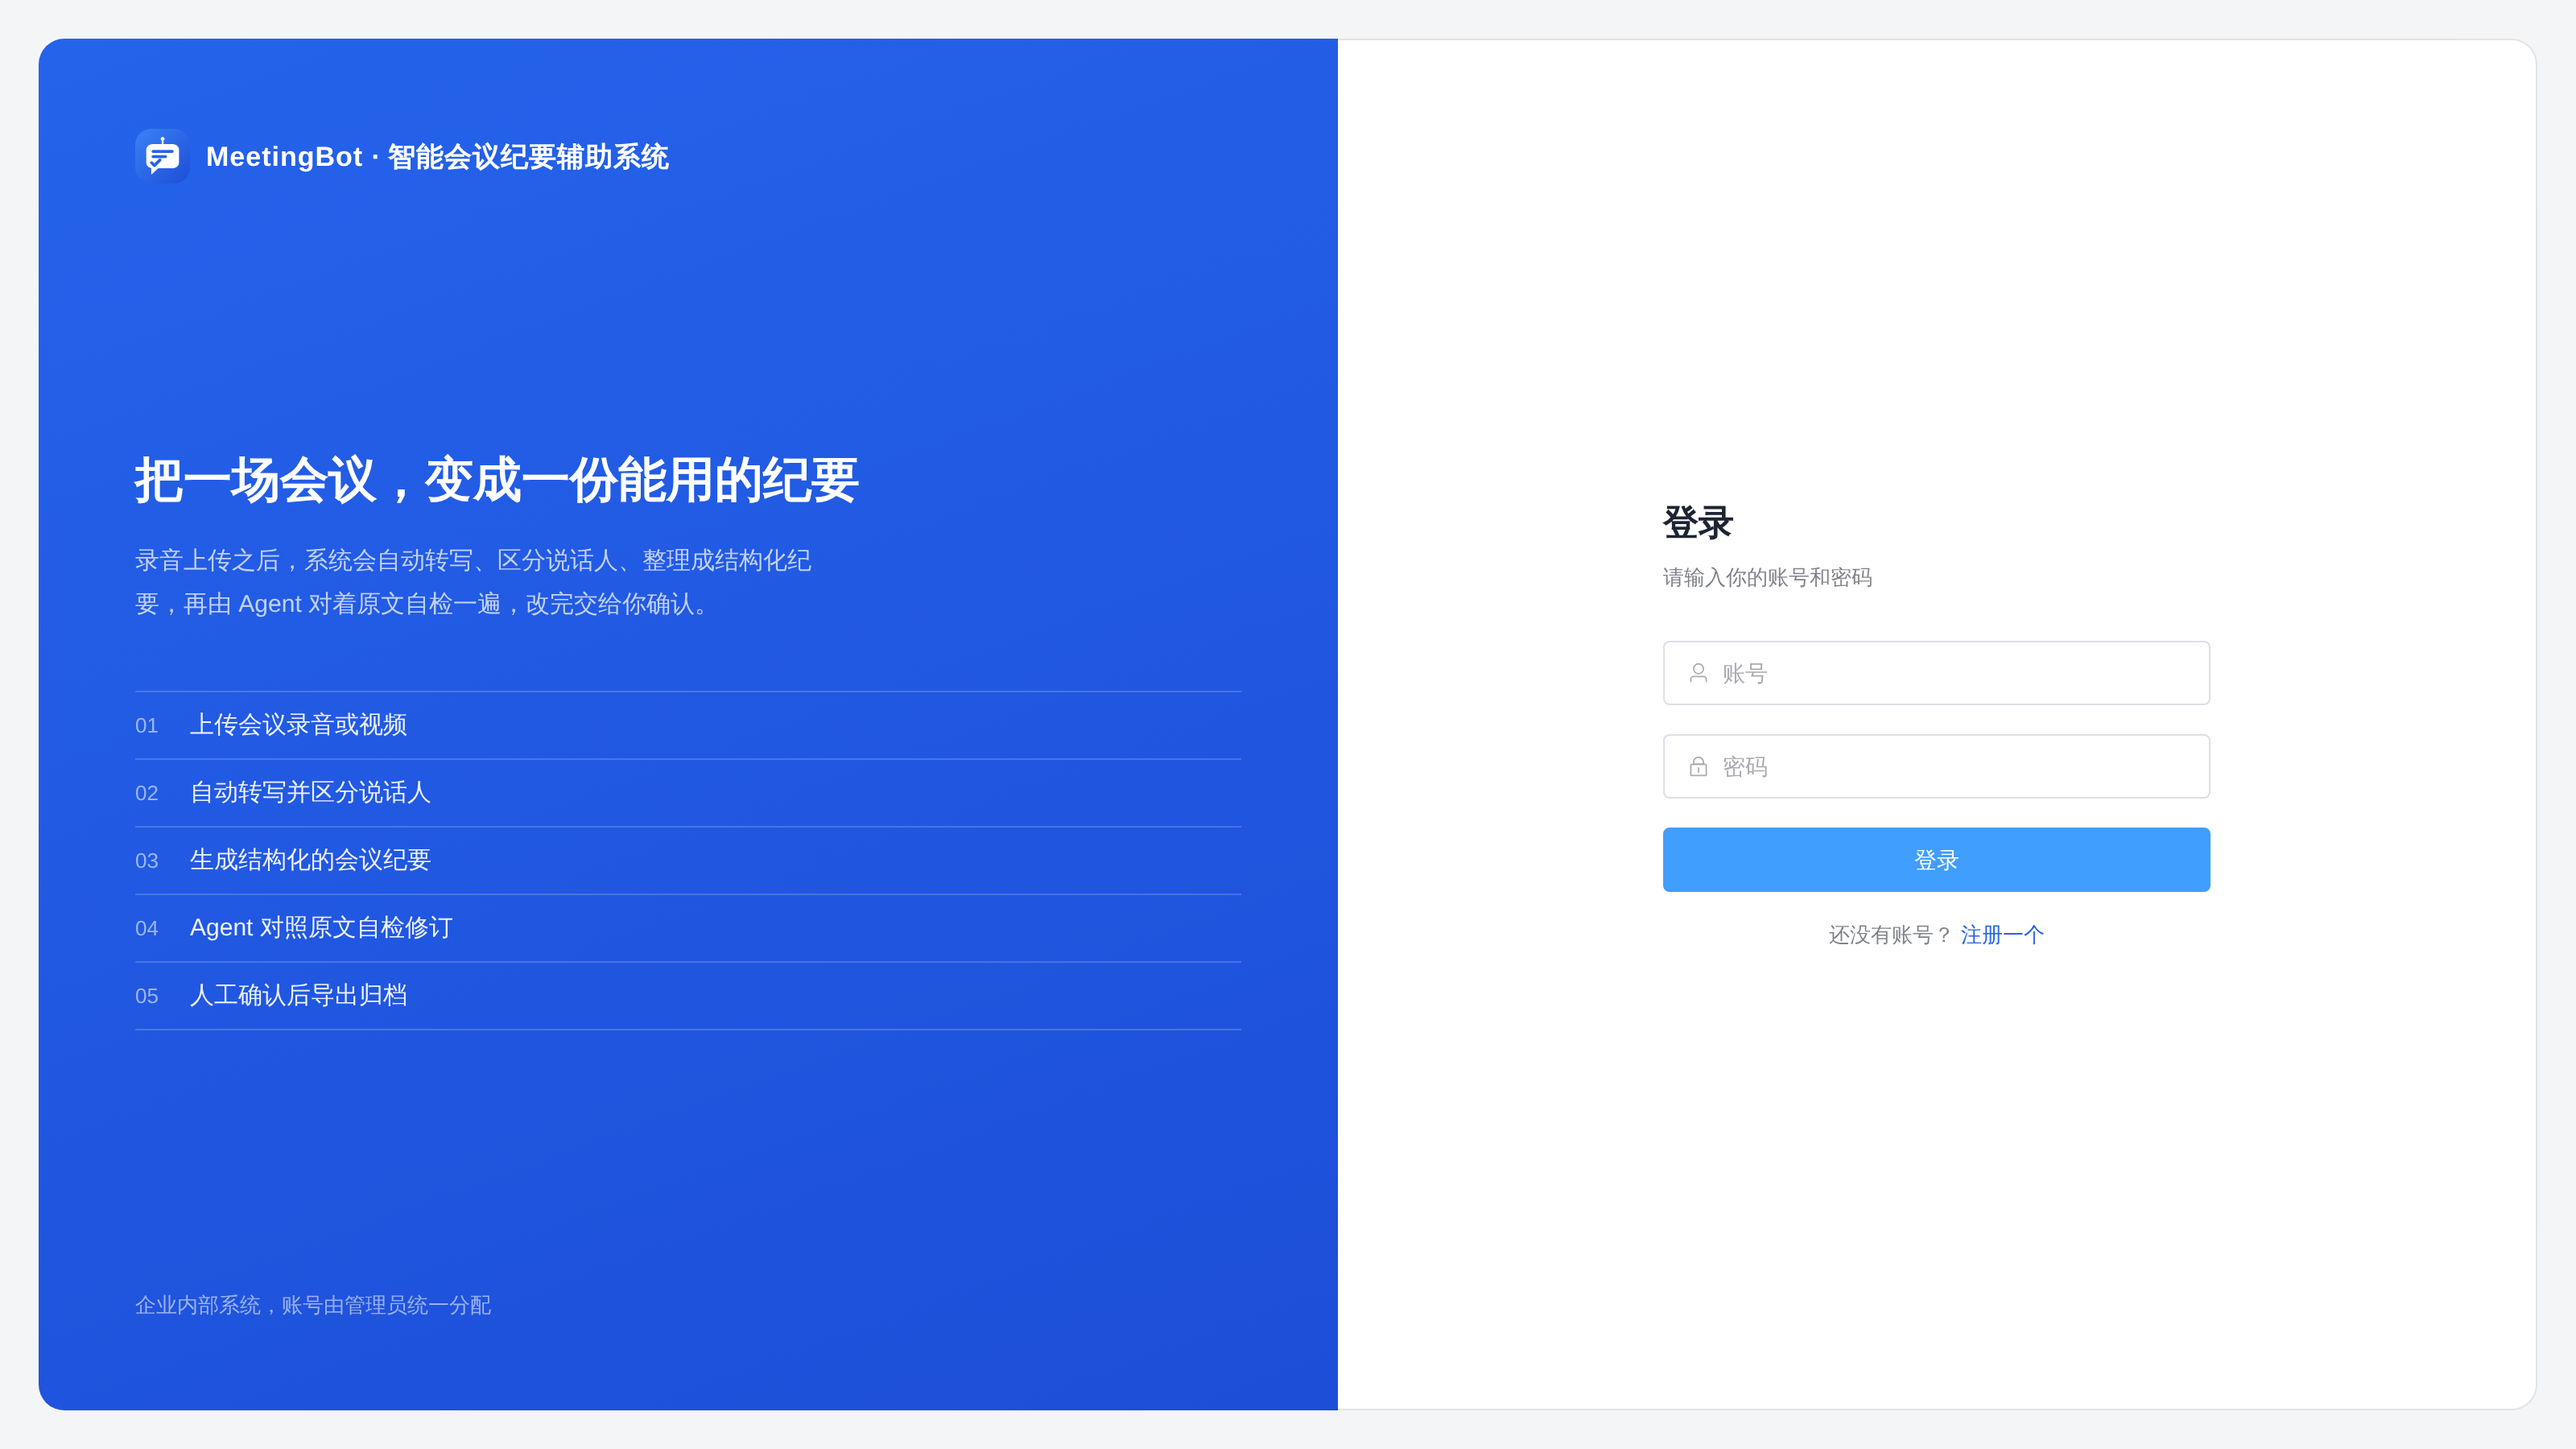
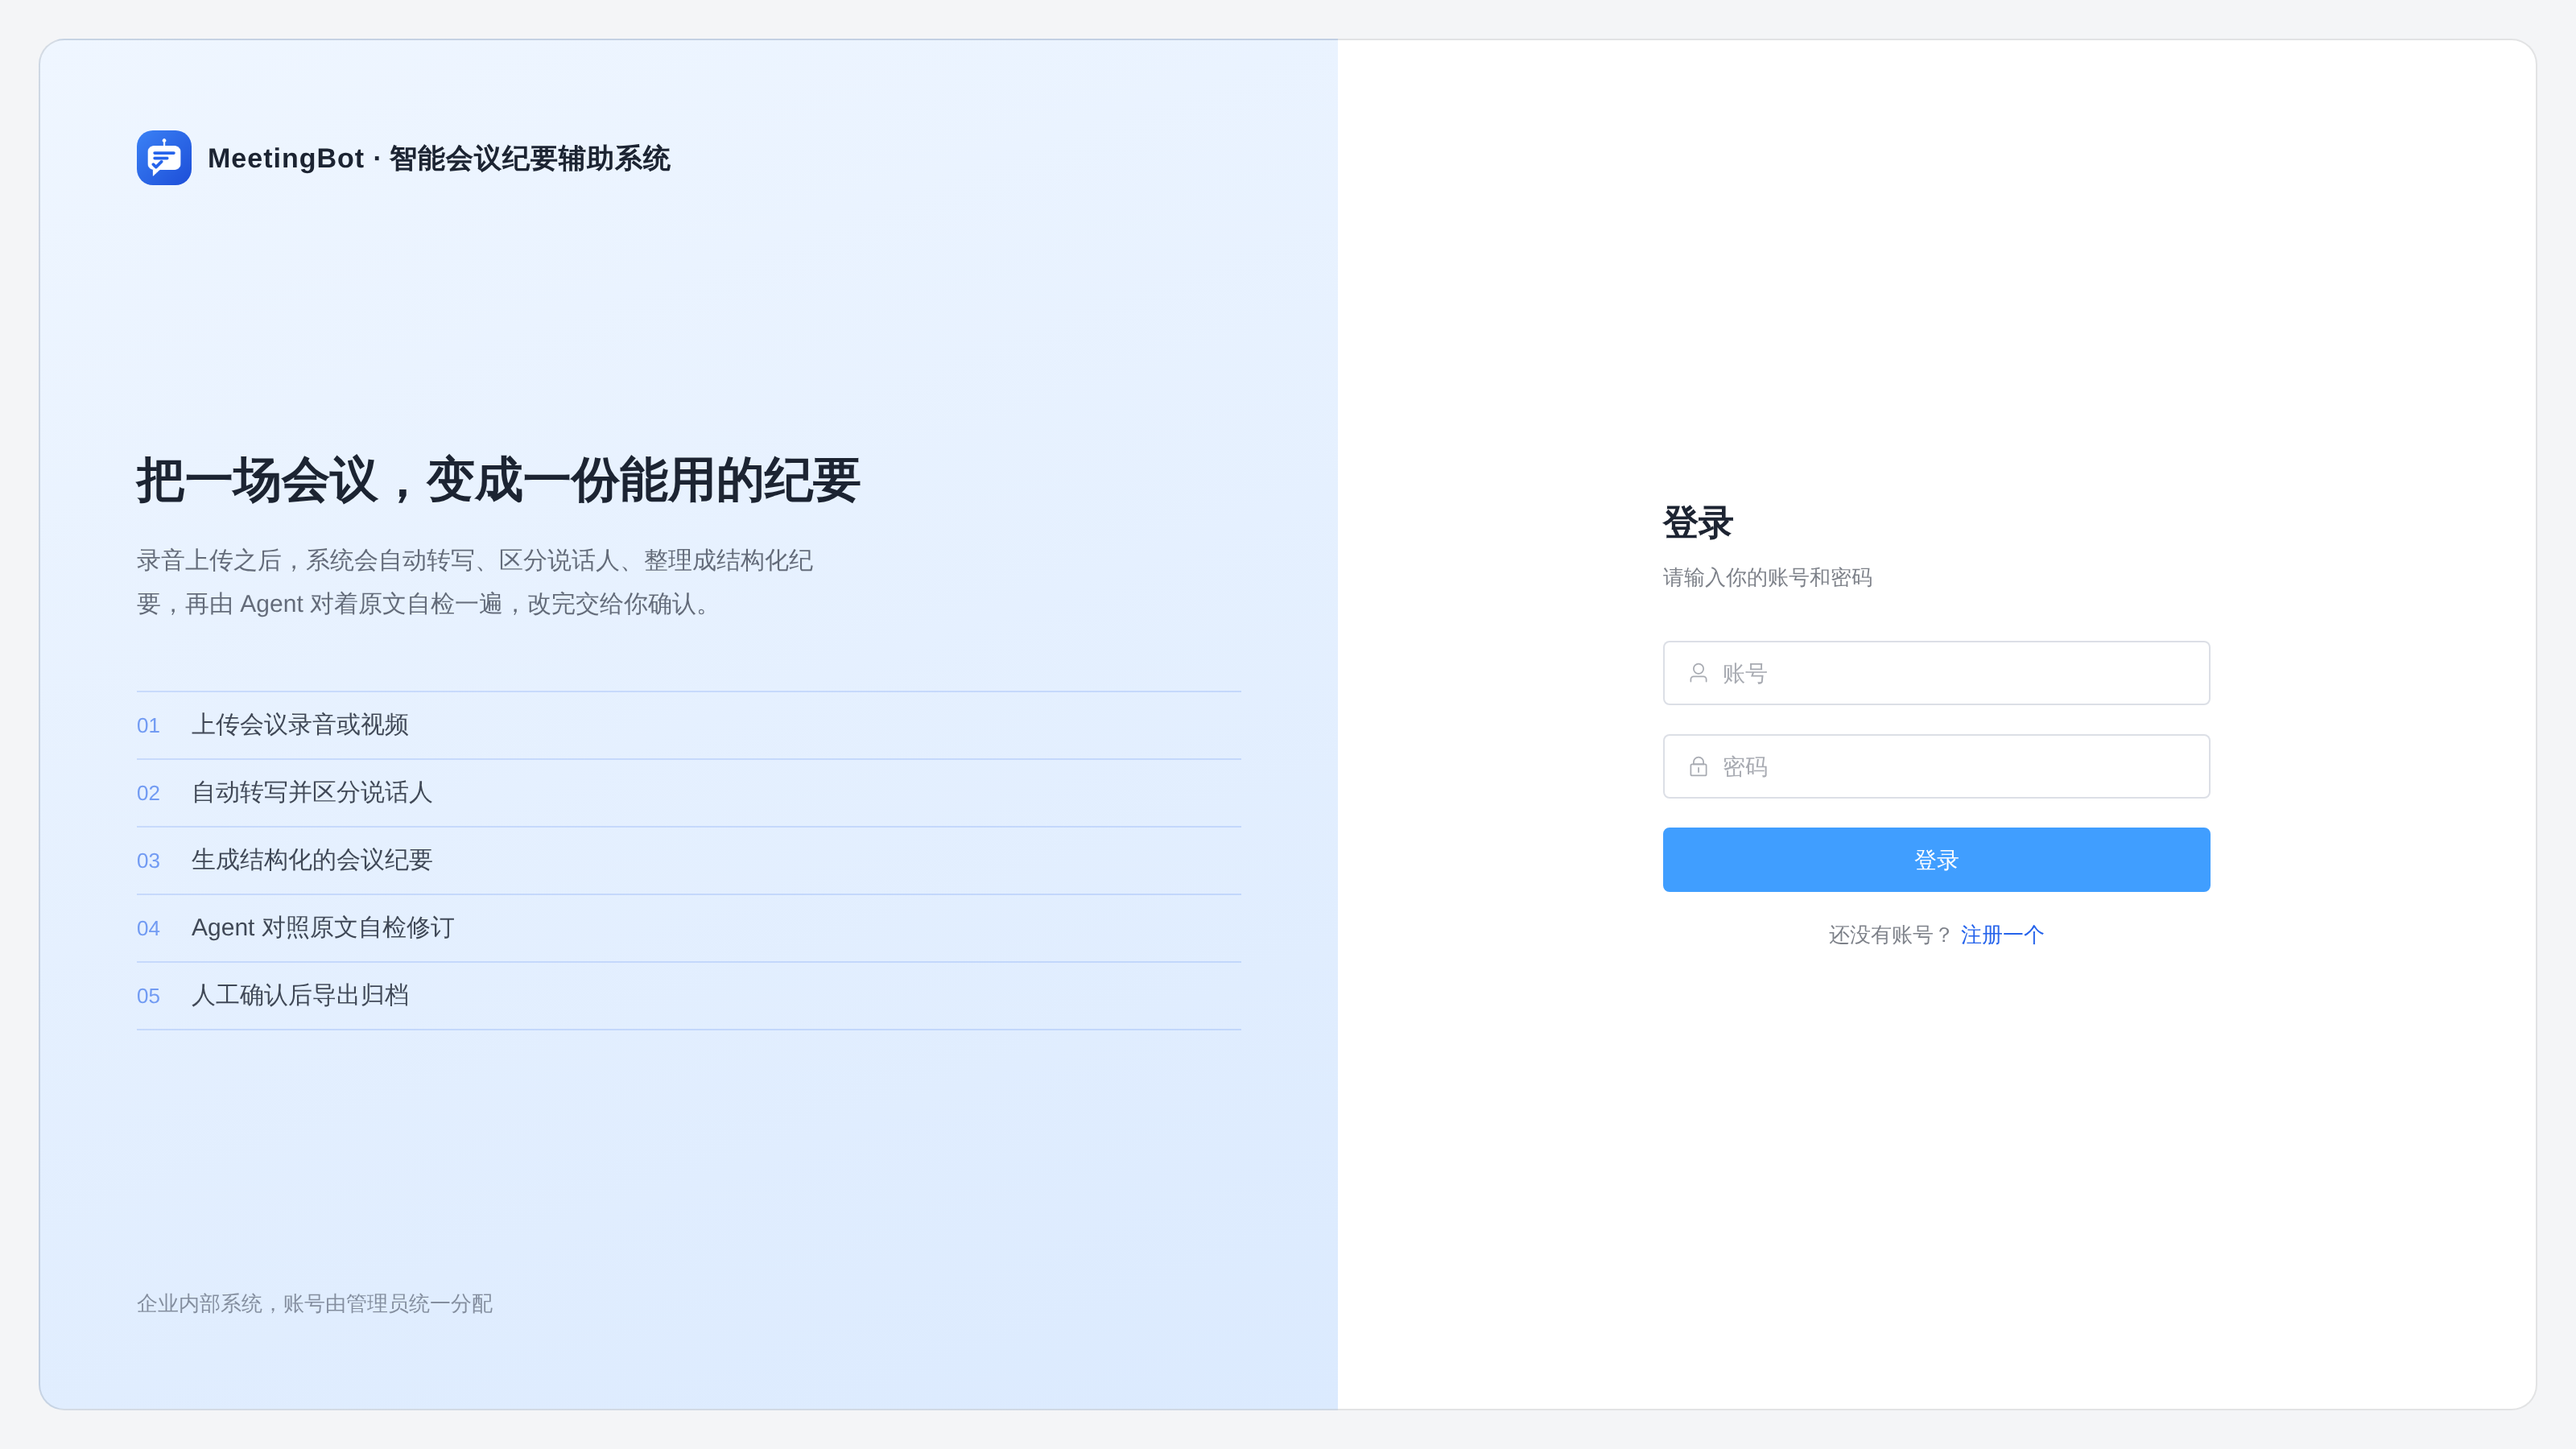
style(web): 登录页左栏改浅蓝底色
深蓝渐变面板视觉过重，改为浅蓝渐变（#eff6ff→#dbeafe）：标题/文案用深色文字、步骤行用淡蓝分隔线与品牌蓝序号，与浅色卡片语言保持一致；左右两栏补细边框拼成完整圆角卡。登录页截图同步重拍。

diff --git a/ai_meeting/vue/src/assets/css/auth.css b/ai_meeting/vue/src/assets/css/auth.css
@@ -1,5 +1,5 @@
-/* 登录页和注册页共用的样式：浅灰底上的双栏白卡，左栏品牌蓝渐变介绍区
-   （色板与 NewsClaw 一致：品牌蓝 #2563eb → #1d4ed8、12px 圆角、细边框） */
+/* 登录页和注册页共用的样式：浅灰底上的双栏白卡，左栏浅蓝介绍区
+   （色板与 NewsClaw 一致：浅蓝 #eff6ff→#dbeafe、品牌蓝 #2563eb、12px 圆角、细边框） */
 
 .auth-container {
     height: 100vh;
@@ -8,10 +8,12 @@
     padding: 24px;
 }
 
-/* 左半屏：品牌蓝渐变底的系统介绍区，说明这套系统把一场会议处理成什么 */
+/* 左半屏：浅蓝底的系统介绍区，说明这套系统把一场会议处理成什么 */
 .auth-intro {
     width: 52%;
-    background: linear-gradient(160deg, #2563eb 0%, #1d4ed8 100%);
+    background: linear-gradient(160deg, #eff6ff 0%, #dbeafe 100%);
+    border: 1px solid var(--mb-border);
+    border-right: none;
     border-radius: 16px 0 0 16px;
     padding: 56px 60px;
     display: flex;
@@ -34,21 +36,21 @@
     margin-left: 10px;
     font-size: 17px;
     font-weight: 600;
-    color: #fff;
+    color: var(--mb-text);
     letter-spacing: .5px;
 }
 
 .auth-headline {
     font-size: 30px;
     font-weight: 600;
-    color: #fff;
+    color: var(--mb-text);
     line-height: 1.5;
     margin-bottom: 14px;
 }
 
 .auth-subline {
     font-size: 15px;
-    color: rgba(255, 255, 255, .72);
+    color: rgba(17, 24, 39, .62);
     line-height: 1.8;
     max-width: 430px;
 }
@@ -62,28 +64,28 @@
     display: flex;
     align-items: baseline;
     padding: 11px 0;
-    border-top: 1px solid rgba(255, 255, 255, .18);
+    border-top: 1px solid rgba(37, 99, 235, .16);
 }
 
 .auth-step:last-child {
-    border-bottom: 1px solid rgba(255, 255, 255, .18);
+    border-bottom: 1px solid rgba(37, 99, 235, .16);
 }
 
 .auth-step-no {
     width: 34px;
     font-size: 13px;
-    color: rgba(255, 255, 255, .55);
+    color: rgba(37, 99, 235, .6);
     font-variant-numeric: tabular-nums;
 }
 
 .auth-step-text {
     font-size: 15px;
-    color: rgba(255, 255, 255, .92);
+    color: rgba(17, 24, 39, .78);
 }
 
 .auth-foot {
     font-size: 13px;
-    color: rgba(255, 255, 255, .55);
+    color: rgba(17, 24, 39, .45);
 }
 
 /* 右半屏：白色表单卡，与左栏拼成一张完整的圆角卡片 */
